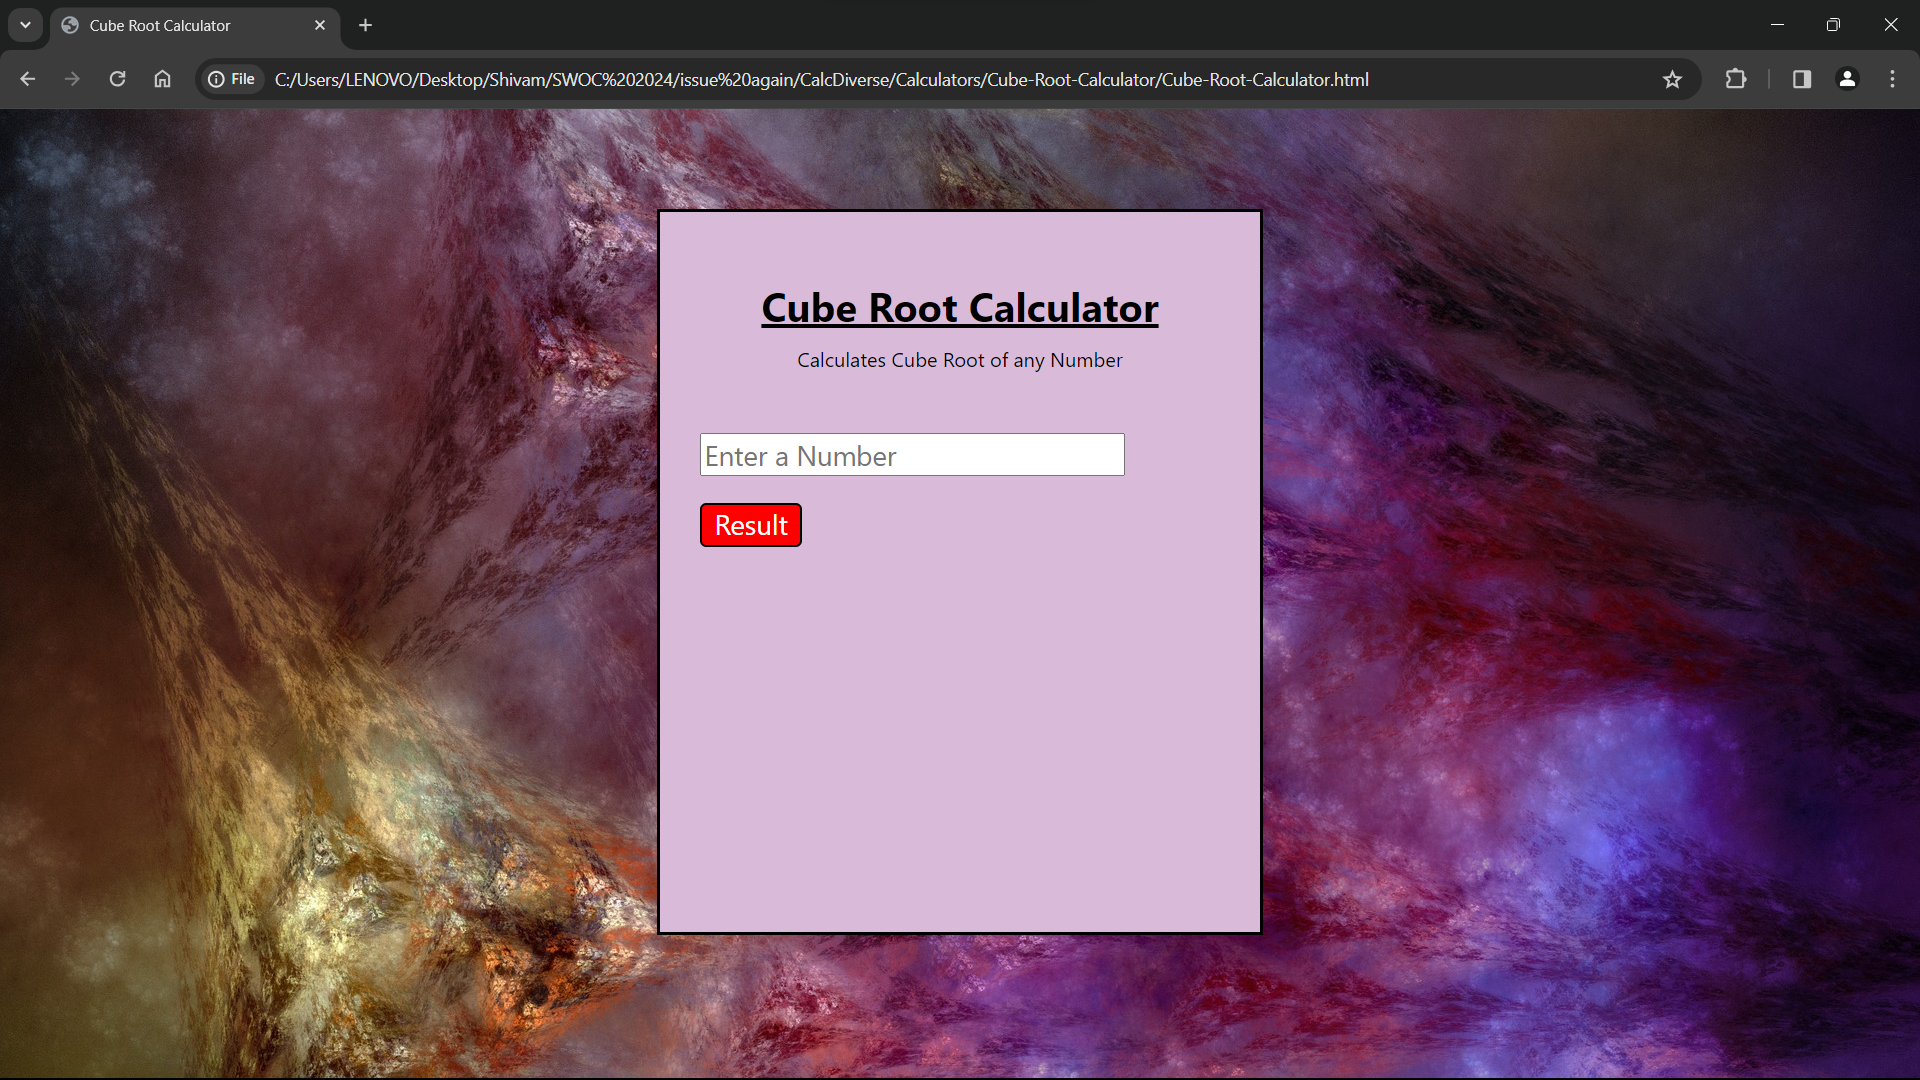
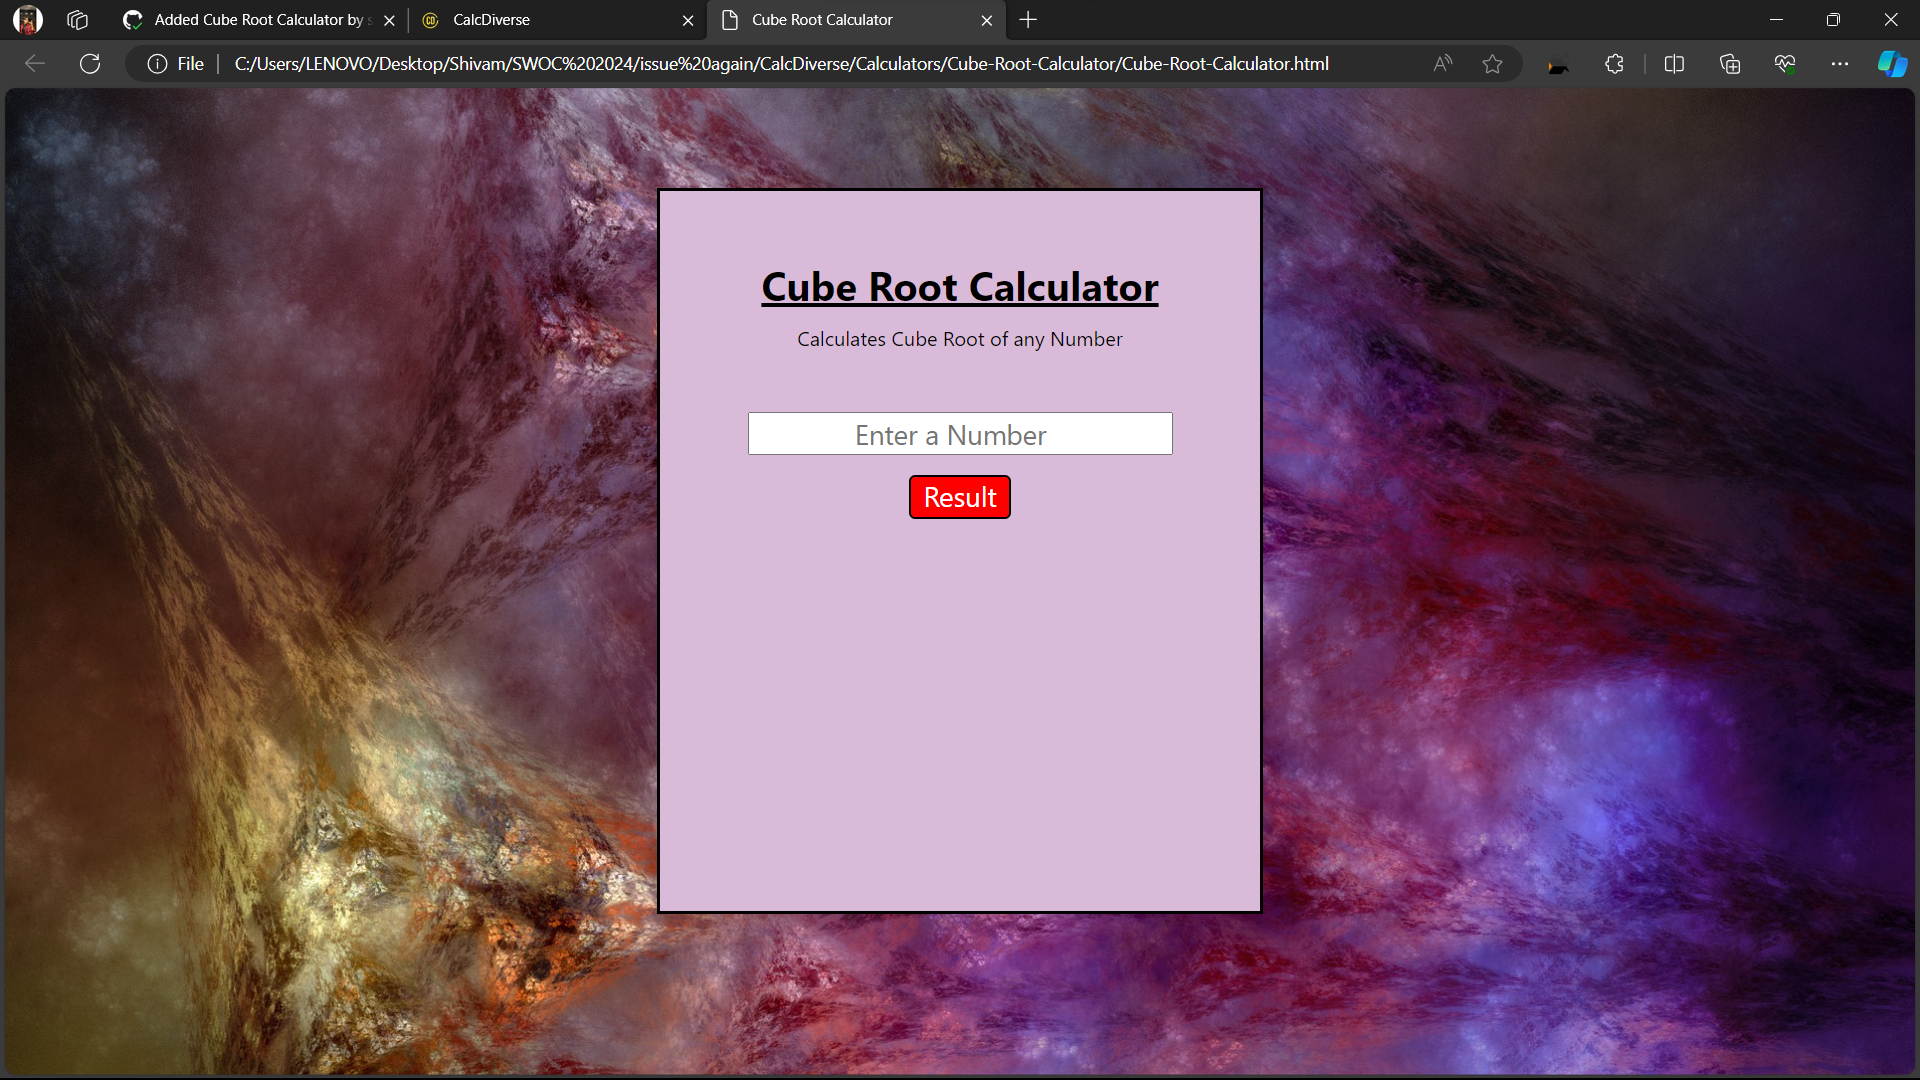
alligned center

diff --git a/Calculators/Cube-Root-Calculator/Cube-Root-Calculator.css b/Calculators/Cube-Root-Calculator/Cube-Root-Calculator.css
@@ -38,6 +38,11 @@ h2 {
     padding: 15px 25px;
 }
 
+h3{
+    font-family: Arial, Helvetica, sans-serif;
+    text-align: center;
+}
+
 .card {
     /* text-align: center; */
     height: 32rem;
@@ -61,6 +66,9 @@ h2 {
     font-size: 22px;
     max-width: 400px;
     min-width: 80%;
+    text-align: center;
+    display: block;
+    margin: 0px auto;
 }
 
 .result {
@@ -70,12 +78,22 @@ h2 {
     border: 2px solid black;
     border-radius: 5px;
     padding: 0 10px 2px 10px;
+    text-align: center;
+    position: relative;
+    bottom: 1.7rem;
+
 }
 
 .result:hover {
     transition: 0.2s ease-out;
     background-color: white;
     color: red;
+}
+
+.centerbtn {
+    width: 100%;
+    display: flex;
+    justify-content: center;
 }
 
 

diff --git a/Calculators/Cube-Root-Calculator/Cube-Root-Calculator.js b/Calculators/Cube-Root-Calculator/Cube-Root-Calculator.js
@@ -7,8 +7,13 @@ function cubeRootCalc() {
     let cubeAns = (numb) ** (1 / 3);
     // cubeAns = Math.pow(numb,(1/3));
     let roundAns = cubeAns.toFixed(4);
+    ansString = `${roundAns}`
+    console.log(ansString.slice(-4))
+    if (ansString.slice(-4) == parseInt("0000")) {
+        roundAns = parseInt(roundAns)
+    }
     const resultPara = document.querySelector(".res-stat");
-    resultPara.innerHTML = `<h3>Cube Root of number ${numb}= </h3><h2>${roundAns}</h2>`;
+    resultPara.innerHTML = `<h3>Cube Root of Number ${numb}: </h3><h2>${roundAns}</h2>`;
     document.getElementById("numb").value = "";
 }
 

diff --git a/Calculators/Cube-Root-Calculator/Cube-Root-Calculator.html b/Calculators/Cube-Root-Calculator/Cube-Root-Calculator.html
@@ -15,7 +15,7 @@
             <h1 style="text-align: center;">Cube Root Calculator</h1>
             <p style="text-align: center; line-height: 0;">Calculates Cube Root of any Number</p><br><br>
             <input type="number" name="" id="numb" placeholder="Enter a Number"><br><br>
-            <button class="result" onclick="cubeRootCalc()">Result</button>
+            <div class="centerbtn"><button class="result" onclick="cubeRootCalc()">Result</button></div>
             <h3 class="res-stat"></h3>
         </div>
     </div>

diff --git a/Calculators/Cube-Root-Calculator/README.md b/Calculators/Cube-Root-Calculator/README.md
@@ -2,7 +2,7 @@
 
 ## Description :-
 
-![Preview Screenshot](./assets/PreviewScreenshot.png)
+![Preview Screenshot](./assets/previewScreenshot.png)
 
 Calculates Cube Root of any Number
 
